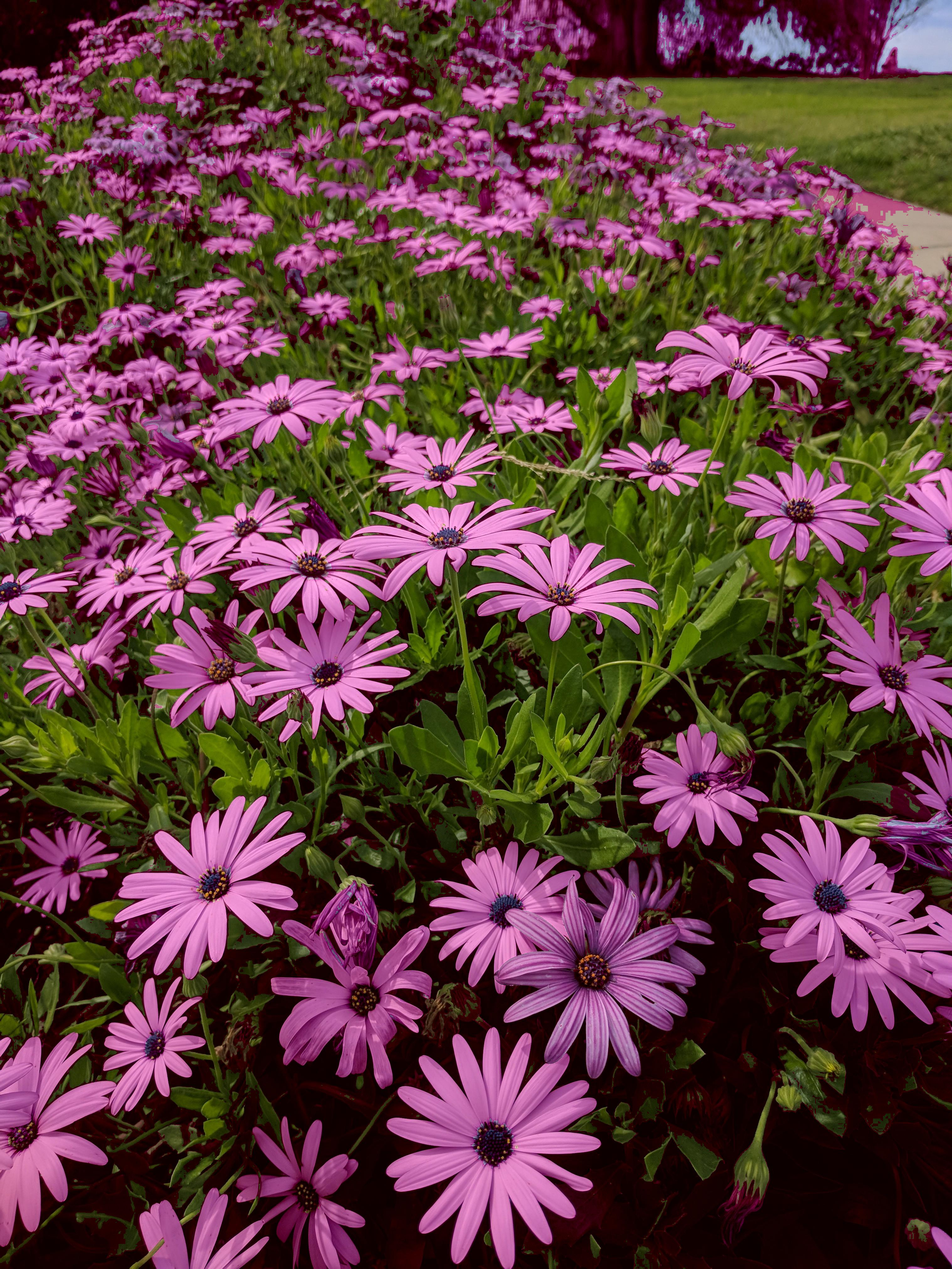
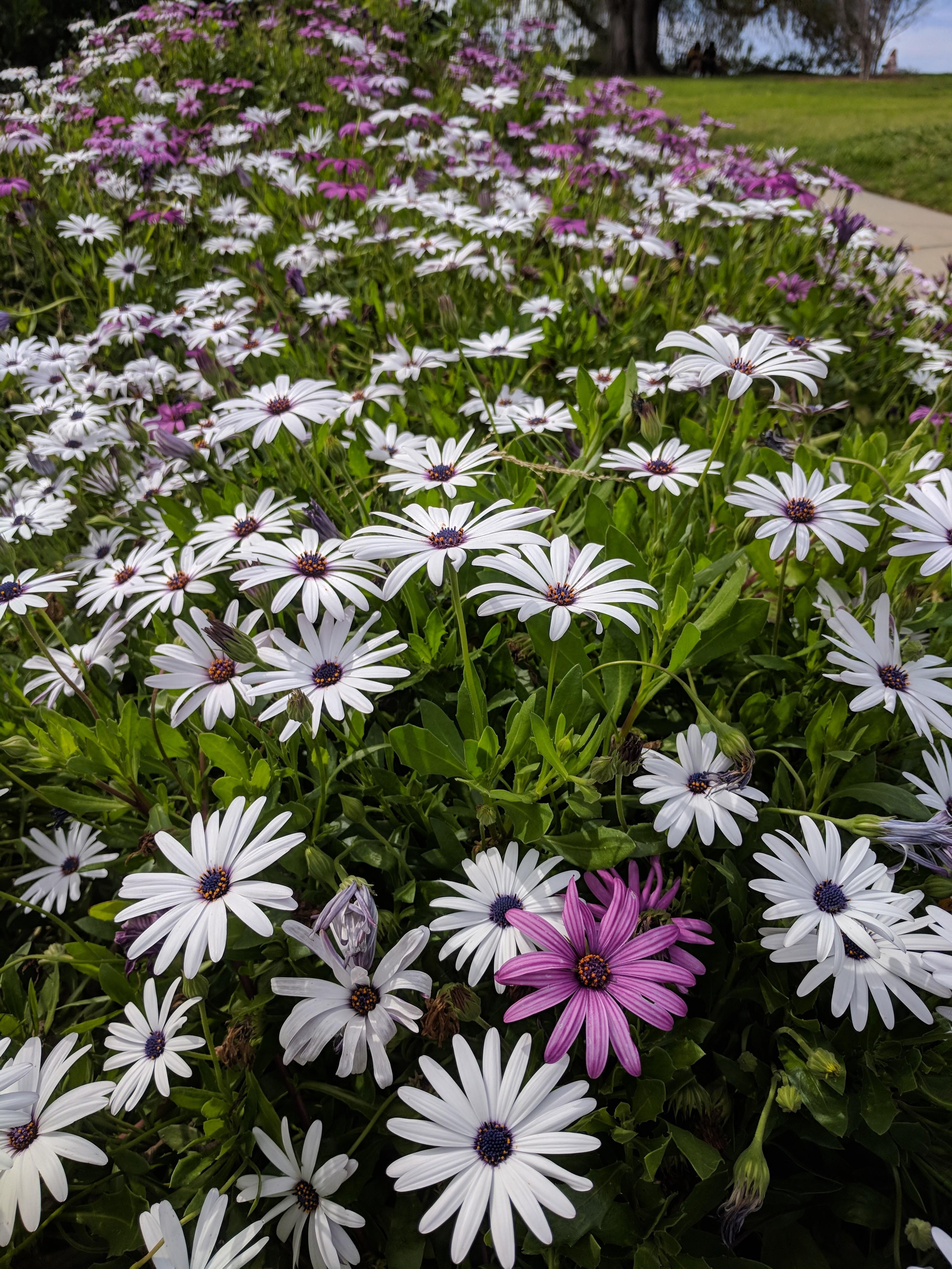
commenting and bug fixing

diff --git a/PerformanceOptimization/src/ImageProcess.java b/PerformanceOptimization/src/ImageProcess.java
@@ -6,6 +6,7 @@ import java.io.IOException;
 
 import javax.imageio.ImageIO;
 
+//program for image processing using single thread and multithread.
 public class ImageProcess {
 
     public static final String SOURCE_FILE= "/home/vivek/Desktop/multiThreadingHandsOn/src/PerformanceOptimization/resources/many-flowers.jpg";
@@ -47,9 +48,9 @@ public class ImageProcess {
         int newBlue;
 
         if(isShadeOfGray(red, green, blue)){
-            newRed = Math.min(255, red + 10);
-            newGreen = Math.max(0, green-80);
-            newBlue = Math.max(0, blue-20);
+            newRed = Math.min(255, red + 0);
+            newGreen = Math.max(0, green-0);
+            newBlue = Math.max(0, blue);
         }else{
             newRed = red;
             newGreen = green;
